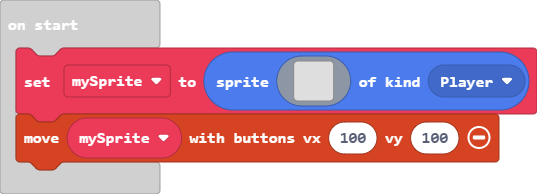
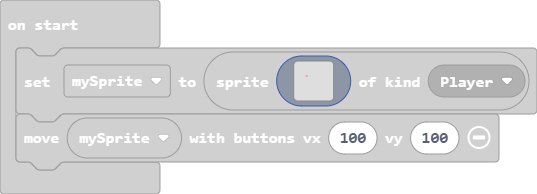
Update main.blocks, main.ts

diff --git a/main.ts b/main.ts
@@ -4,7 +4,7 @@ let mySprite = sprites.create(img`
     . . . . . . . . . . . . . . . . 
     . . . . . . . . . . . . . . . . 
     . . . . . . . . . . . . . . . . 
-    . . . . . . . . . . . . . . . . 
+    . . . . 3 . . . . . . . . . . . 
     . . . . . . . . . . . . . . . . 
     . . . . . . . . . . . . . . . . 
     . . . . . . . . . . . . . . . . 
